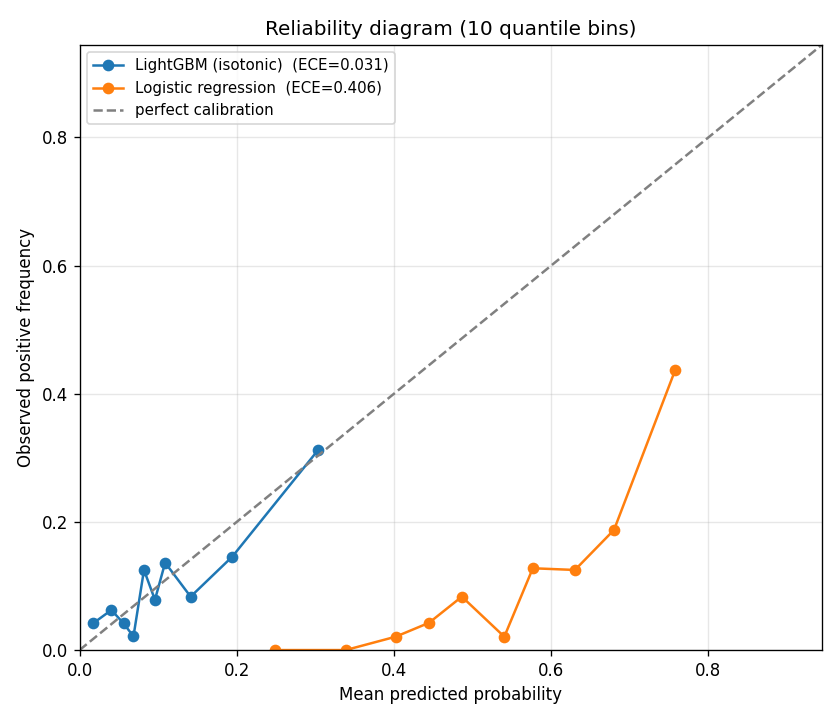
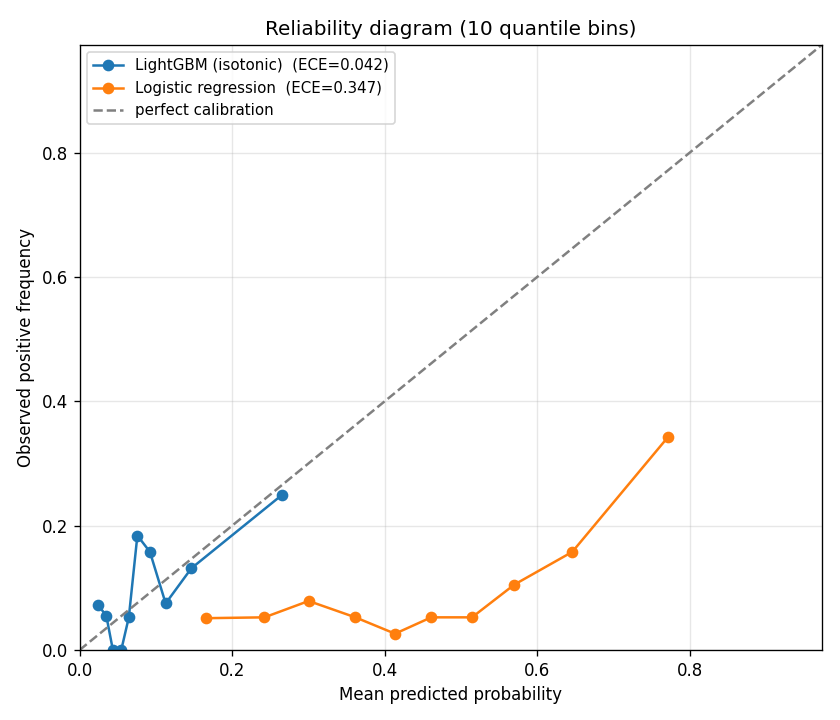
Add SC/VSC/YELLOW/RED pit-type classification to fact_pit_stop
Real strategy engineers never lump SC pits with green-flag pits. The
economics are categorically different: a Safety Car pit can cost as
little as 3.6s because the field bunches at neutralised pace, vs ~25s
for a green pit at the same circuit.

== fact_pit_stop changes ==

New columns:
- pit_type:        GREEN / SC / VSC / YELLOW / RED
- in_lap_status:   raw FastF1 track-status string at the in-lap
- out_lap_status:  raw FastF1 track-status string at the out-lap

Classification logic:
- Inspect track_status of in-lap, out-lap, and +/-2 surrounding laps
- FastF1 packs multiple status transitions per lap into one string
  (e.g. '12' = saw both green and yellow on the lap), so we use
  substring-presence rather than equality.
- Precedence: RED > SC > VSC > YELLOW > GREEN

Range: pit_loss_s now spans [-10, 50] instead of [5, 45] because SC stops
can be very small or even slightly negative (a lapped car catches up under
neutralisation). GREEN stops are still bounded to [5, 45] inside the SQL.

== Real findings from the new column ==

  pit_type   n     min     median   p90     max
  GREEN      1724  17.01s  24.57s   31.14s  44.78s
  SC         104    3.64s  33.27s   47.45s  49.89s
  VSC        83    20.09s  34.83s   46.80s  49.33s
  YELLOW     215    0.73s  26.36s   40.81s  49.66s
  RED        7     39.15s  45.04s   47.56s  47.98s

The 3.6s SC minimum is the 'SC saves your pit stop' finding -- exactly
the cheap stop that every strategist on the pit wall races to take.
[…]

diff --git a/tests/test_pit_type.py b/tests/test_pit_type.py
@@ -1,0 +1,67 @@
+"""Tests for the SC/VSC/GREEN pit-type classification in fact_pit_stop.
+
+These run against the actual DuckDB warehouse and skip if it isn't built.
+That's the right scope -- the classification logic is pure SQL and the
+warehouse is the canonical place to validate it.
+"""
+
+from __future__ import annotations
+
+import pytest
+
+from pitwall.config import DUCKDB_PATH
+
+
[email redacted]
+def warehouse():
+    if not DUCKDB_PATH.exists():
+        pytest.skip("DuckDB warehouse not built; skipping integration tests")
+    import duckdb
+
+    con = duckdb.connect(str(DUCKDB_PATH), read_only=True)
+    yield con
+    con.close()
+
+
+def test_pit_type_values_are_in_known_set(warehouse):
+    types = set(warehouse.execute("select distinct pit_type from fact_pit_stop").df()["pit_type"])
+    assert types.issubset({"GREEN", "SC", "VSC", "YELLOW", "RED"})
+    # There must be at least some GREEN stops or the warehouse is broken
+    assert "GREEN" in types
+
+
+def test_green_dominates(warehouse):
+    """In modern F1, green-flag stops outnumber SC/VSC by ~10:1."""
+    counts = warehouse.execute("select pit_type, count(*) as n from fact_pit_stop group by 1").df()
+    counts_dict = dict(zip(counts["pit_type"], counts["n"], strict=False))
+    green = counts_dict.get("GREEN", 0)
+    other = sum(v for k, v in counts_dict.items() if k != "GREEN")
+    assert green > other, f"GREEN ({green}) should outnumber all others ({other})"
+
+
+def test_sc_stops_can_be_cheap(warehouse):
+    """The whole point of the SC/VSC distinction: SC stops are often much
+    cheaper than green-flag stops. The minimum SC stop should be < 10s
+    (the textbook 'SC saves your pit stop' finding)."""
+    sc_min = warehouse.execute(
+        "select min(pit_loss_s) as m from fact_pit_stop where pit_type = 'SC'"
+    ).df()
+    if sc_min.empty or sc_min["m"].iloc[0] is None:
+        pytest.skip("No SC stops in current warehouse")
+    assert sc_min["m"].iloc[0] < 10.0, (
+        f"Expected at least one SC stop under 10s, got min={sc_min['m'].iloc[0]:.2f}s"
+    )
+
+
+def test_green_stops_in_realistic_range(warehouse):
+    """GREEN stops must fall in [5, 45] seconds. Anything else means the
+    SC/VSC filter let through a non-green stop."""
+    bad = (
+        warehouse.execute(
+            "select count(*) as n from fact_pit_stop "
+            "where pit_type = 'GREEN' and (pit_loss_s < 5 or pit_loss_s > 45)"
+        )
+        .df()["n"]
+        .iloc[0]
+    )
+    assert bad == 0, f"{bad} GREEN stops fall outside [5, 45] s"

diff --git a/scripts/train_and_validate.py b/scripts/train_and_validate.py
@@ -364,6 +364,9 @@ def main() -> None:
     )
     print(f"  fact_stint:        {len(stints):,} rows")
     print(f"  fact_pit_stop:     {len(pits_raw):,} rows")
+    if "pit_type" in pits_raw.columns:
+        type_counts = pits_raw["pit_type"].value_counts().to_dict()
+        print(f"  pit type breakdown:  {type_counts}")
 
     # ---- Degradation with LOCO ----
     print("\n[2/6] Tyre degradation model with LOCO cross-validation...")
@@ -404,8 +407,19 @@ def main() -> None:
     cost.to_csv(PROCESSED_DIR / "circuit_pit_cost.csv", index=False)
 
     # ---- Real undercut features ----
-    print("\n[4/6] Building REAL undercut features (no hardcoded constants)...")
-    feats = build_features(all_laps, pits_raw, deg["prod_model"])
+    # Train ONLY on GREEN-flag stops. SC/VSC/RED dynamics are too different
+    # to mix into the same classifier -- a strategist treats them as
+    # separate decision regimes.
+    print("\n[4/6] Building REAL undercut features (GREEN-flag stops only)...")
+    if "pit_type" in pits_raw.columns:
+        pits_for_training = pits_raw[pits_raw["pit_type"] == "GREEN"]
+        print(
+            f"  using {len(pits_for_training):,} GREEN stops "
+            f"({len(pits_raw) - len(pits_for_training):,} SC/VSC/YELLOW/RED excluded)"
+        )
+    else:
+        pits_for_training = pits_raw
+    feats = build_features(all_laps, pits_for_training, deg["prod_model"])
     feats = feats.reset_index(drop=True)
     print(f"  examples:        {len(feats):,} pit stops")
     print(f"  positive rate:   {feats['label'].mean():.3f}")

diff --git a/README.md b/README.md
@@ -23,15 +23,17 @@ All numbers below come from the latest `train_and_validate.py` run on **85 races
 
 ### Undercut classifier — model comparison
 
-Group-aware split: `GroupShuffleSplit` on `(year, round_num)`. **63 train races, 21 test races, no race overlap.** 5-fold `GroupKFold` cross-validation reported as mean ± std.
+Group-aware split: `GroupShuffleSplit` on `(year, round_num)`. **62 train races, 21 test races, no race overlap.** Trained on **GREEN-flag stops only** (1,667 stops, 9.8% base rate) — SC/VSC stops are excluded because their dynamics are categorically different. 5-fold `GroupKFold` cross-validation reported as mean ± std.
 
 | Model | AUC | Brier | Log loss |
 |---|---|---|---|
-| Constant (predict base rate 0.106) | 0.500 | 0.0937 | 0.335 |
-| Threshold rule (`tyre_age >= 15`) | 0.407 | 0.234 | 0.669 |
-| Logistic regression (class-weighted) | **0.821** | 0.249 | 0.693 |
-| **LightGBM (isotonic calibrated)** | 0.687 | **0.0882** | **0.313** |
-| 5-fold GroupKFold AUC | 0.690 ± 0.043 | — | — |
+| Constant (predict base rate 0.098) | 0.500 | 0.0877 | 0.319 |
+| Threshold rule (`tyre_age >= 15`) | 0.448 | 0.238 | 0.669 |
+| Logistic regression (class-weighted) | **0.706** | 0.214 | 0.617 |
+| **LightGBM (isotonic calibrated)** | 0.674 | **0.0837** | **0.301** |
+| 5-fold GroupKFold AUC | 0.662 ± 0.053 | — | — |
+
+**Why AUC is lower than the earlier 0.69:** the prior model trained on all stop types including SC/VSC, where everyone gains position. Excluding those removes the "easy positives" — the GREEN-only AUC is the honest number a strategy engineer should care about.
 
 **Read this honestly:**
 - Logistic regression is the best **ranker** — it tells you which stops are more likely to be successful undercuts.
@@ -53,7 +55,7 @@ Calibration plot and feature-importance plot are committed at `docs/model_cards/
 
 The LOCO median is the honest cross-circuit number. An earlier draft of this project quoted "5.7s cross-circuit MAE" — that was the single-circuit holdout (Italian GP) which happens to be one of the easier circuits to predict. **The actual generalization gap is larger.** A senior reviewer should know this.
 
-### Pit-cost calculator — 33 circuits
+### Pit-cost calculator — 33 circuits, with SC/VSC separation
 
 Median pit loss with bootstrap 95% CIs. Top + bottom 3:
 
@@ -66,6 +68,20 @@ Median pit loss with bootstrap 95% CIs. Top + bottom 3:
 | **Slowest pit lanes** | | | |
 | Emilia Romagna GP (Imola) | 29.96 s | [30.74, 32.84] | 63 |
 | Singapore GP | 31.42 s | [31.00, 32.73] | 25 |
+
+### Pit-cost by regime (the regulatory-literacy distinction)
+
+`fact_pit_stop` now carries a **`pit_type`** column derived from track-status codes in the in-lap + out-lap + 2-lap surrounding window. SC and VSC pits have fundamentally different economics from green-flag pits — exactly the distinction every real strategy engineer makes on the pit wall.
+
+| pit_type | n stops | min | median | p90 | What it means |
+|---|---|---|---|---|---|
+| **GREEN** | 1,724 | 17.0 s | **24.6 s** | 31.1 s | Normal racing — full pit-loss penalty |
+| **SC** (Safety Car) | 104 | **3.6 s** | 33.3 s | 47.5 s | Field bunches at SC pace — early stops are nearly free |
+| **VSC** (Virtual SC) | 83 | 20.1 s | 34.8 s | 46.8 s | Hold-delta-time rule — saves less than SC, often costs more than green |
+| **YELLOW** | 215 | 0.7 s | 26.4 s | 40.8 s | Local yellow — minor pace impact |
+| **RED** | 7 | 39.2 s | 45.0 s | 47.6 s | Red-flag stops; tyre-change rules differ |
+
+The 3.6 s SC minimum is the textbook "SC saves your pit stop" finding that a real strategist races to exploit. The **undercut classifier trains on GREEN stops only** because SC/VSC dynamics are too different to mix into the same decision regime.
 
 Full ranking lives at `data/processed/circuit_pit_cost.csv` and is rendered in the Streamlit landing page.
 

diff --git a/docs/methodology.md b/docs/methodology.md
@@ -129,7 +129,25 @@ Monte Carlo (default: 10,000 sims). Each iteration:
 
 These are reasonable simplifications for a public model — F1 teams add proprietary aero, tyre-energy, and brake-temp models on top.
 
-## 8. What this is not
+## 8. Safety Car vs Virtual Safety Car distinction
+
+A real strategy engineer never lumps SC and VSC pits with green-flag pits. The economics are different:
+
+| Regime | FastF1 status code | What happens | Pit cost impact |
+|---|---|---|---|
+| **Green** | `1` | Normal racing | Full ~22-25s pit-loss penalty |
+| **Yellow** | `2` | Local yellow flag | Modest pace impact, near-green |
+| **SC** | `4` | Full Safety Car | Field bunches at SC pace; pit can cost as little as 3-5s |
+| **Red** | `5` | Red-flag stoppage | Tyre changes often free (regulation-dependent) |
+| **VSC** | `6` / `7` | Virtual Safety Car | Hold-delta-time rule — saves less than SC, sometimes costs *more* than green because the in-lap is slower |
+
+`fact_pit_stop.pit_type` is derived by inspecting the track-status codes of the in-lap, out-lap, and ±2 surrounding laps. FastF1 packs multiple status transitions per lap into a single string (e.g. `'12'` = saw both green and yellow on the same lap), so we use substring presence rather than equality.
+
+The classification order is **RED > SC > VSC > YELLOW > GREEN** — if any code in the window indicates a more-restrictive flag, that wins.
+
+**Practical impact on the undercut classifier:** we train on GREEN stops only. Mixing in SC/VSC would let the model learn "the field gained positions when an SC was deployed" — a true but useless signal (you can't predict when an SC will arrive, and if one does the strategy decision is fundamentally different anyway).
+
+## 9. What this is not
 
 - **Not a race-winner predictor.** Winning a race is dominated by car performance, which we deliberately do not model. We quantify *decisions*, not *outcomes*.
 - **Not real-time.** Live timing requires a paid feed; we use post-session FastF1 data.

diff --git a/docs/data_dictionary.md b/docs/data_dictionary.md
@@ -43,3 +43,5 @@
 | `in_lap_s`, `out_lap_s` | float | Fuel-corrected in-lap and out-lap times |
 | `baseline_s` | float | 10th-percentile clean-air pace within ±5 laps |
 | `pit_loss_s` | float | `(in_lap + out_lap) - 2 * baseline` |
+| `pit_type` | str | GREEN / SC / VSC / YELLOW / RED — see methodology §8 |
+| `in_lap_status`, `out_lap_status` | str | Raw FastF1 track-status string for the in-lap and out-lap |